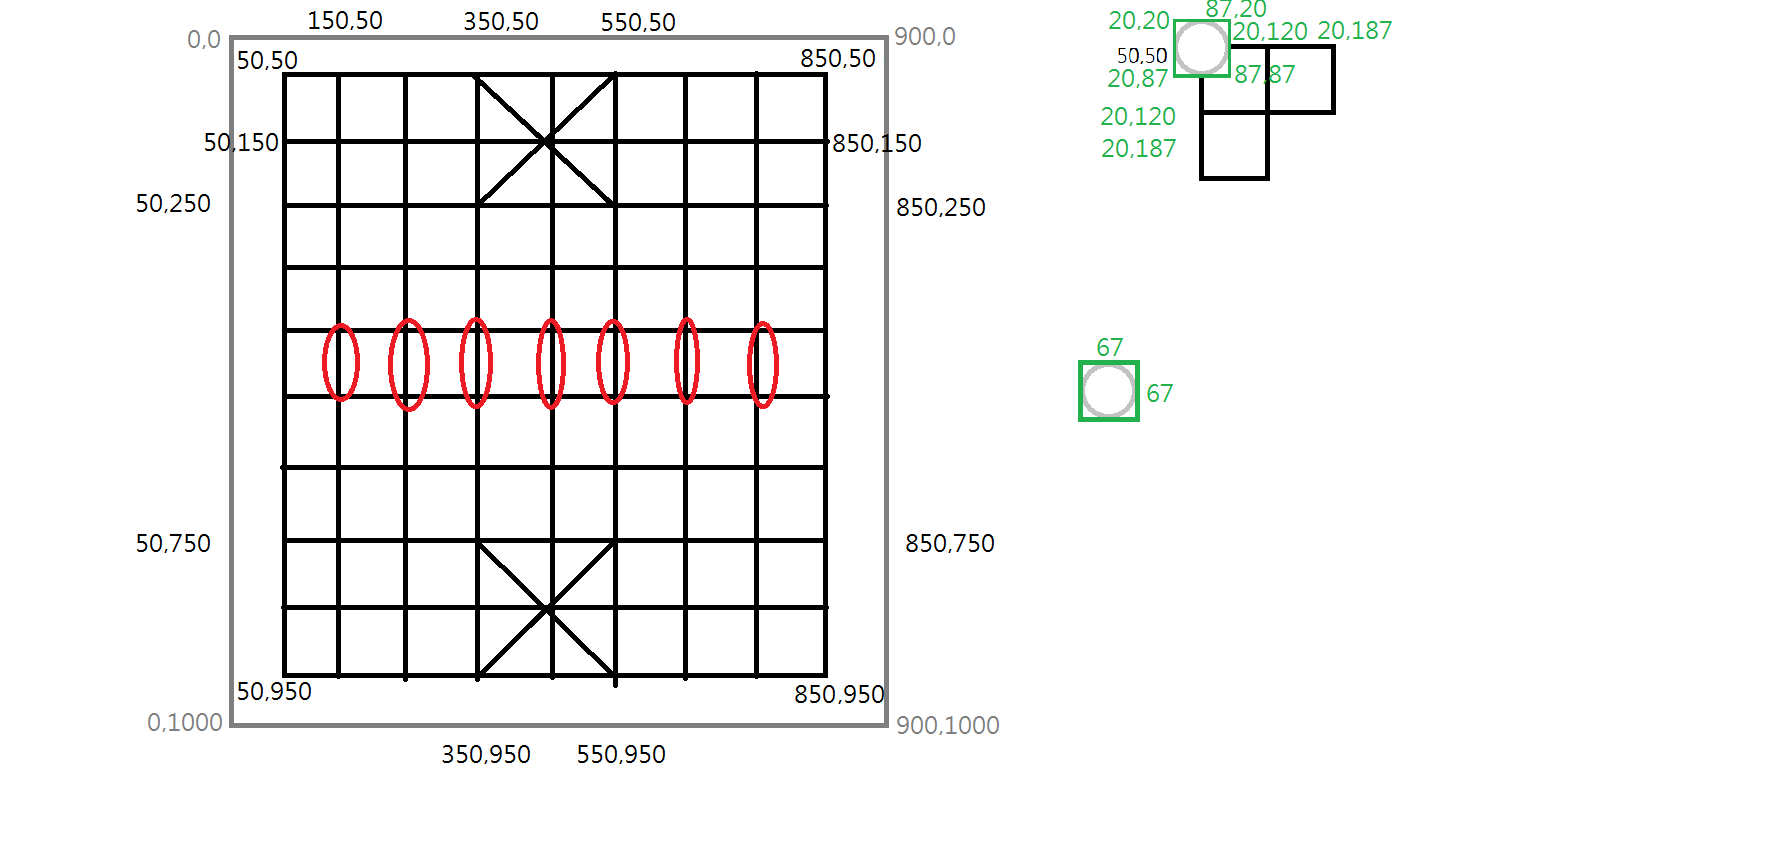
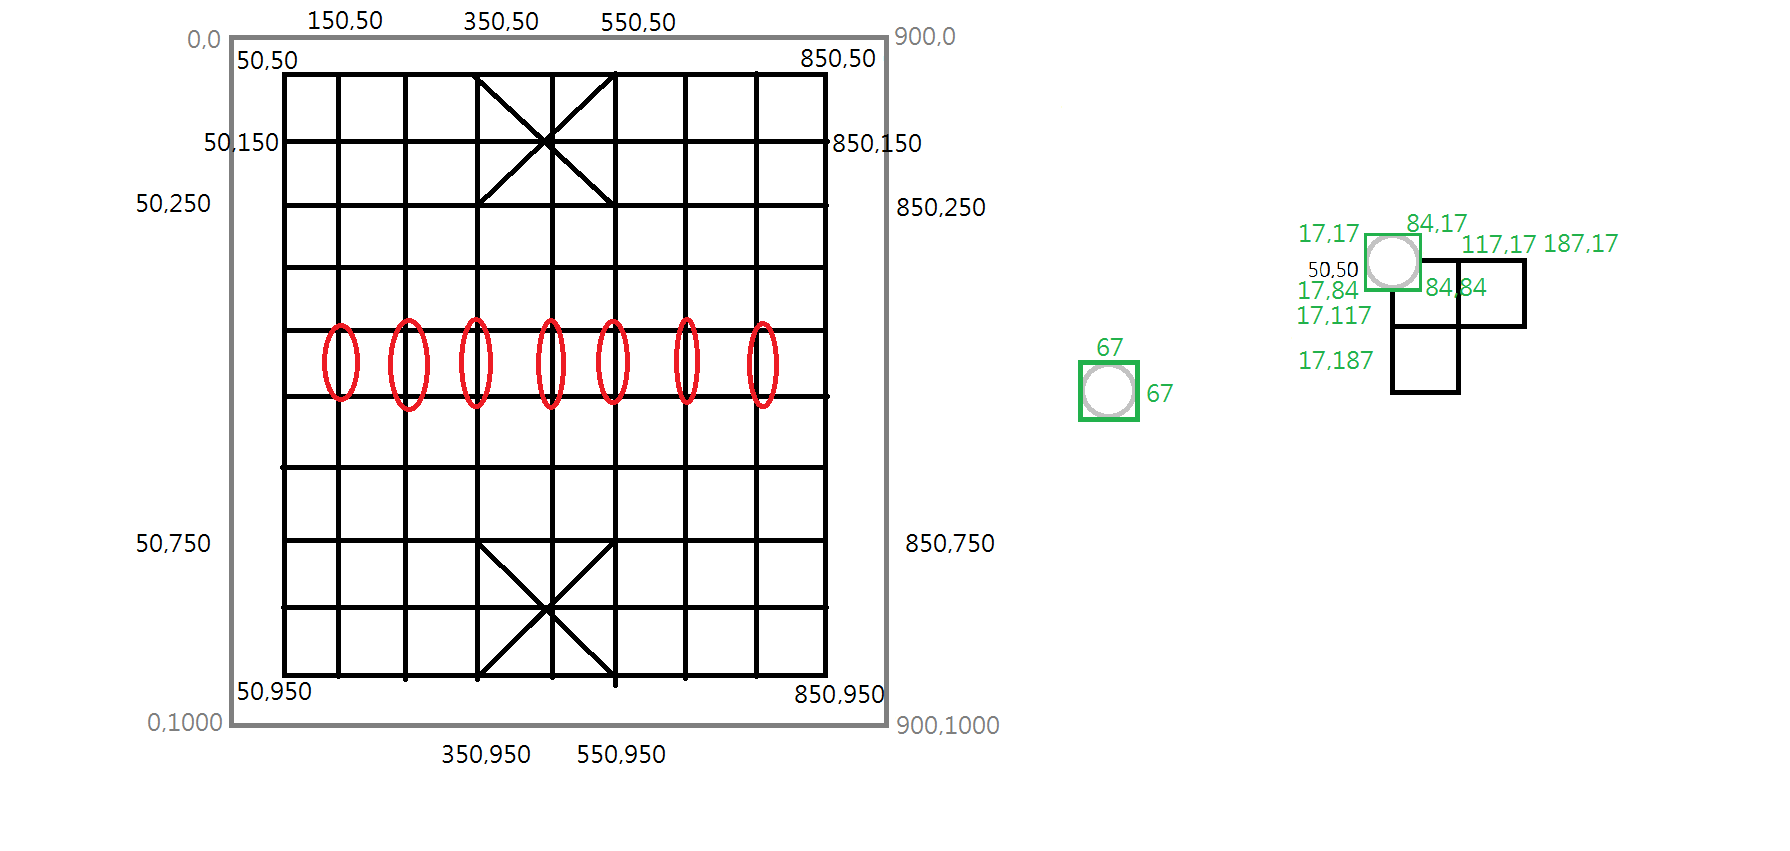
feat: chess movement and eat piece

Changed region(s): [[0.6145, 0.0, 0.7682, 0.2139], [0.7067, 0.2444, 0.9218, 0.4277], [0.7682, 0.4583, 0.8296, 0.4888]]

diff --git a/chess/board.py b/chess/board.py
@@ -3,16 +3,15 @@
 import pygame
 
 # Custom imports
-from chess.piece import Cannon, Elephant, Guard, Horse, King, Rook, Soldier
-from .constants import BLACK, COLS, HEIGHT, OFFSET, ROWS, SQUARE_SIZE, WIDTH, YELLOW_ORANGE
+from chess.piece import Cannon, Elephant, Empty, Guard, Horse, King, Piece, Rook, Soldier
+from .constants import BLACK, COLS, HEIGHT, OFFSET, RED, ROWS, SQUARE_SIZE, WIDTH, YELLOW_ORANGE
 
 
 class Board:
     def __init__(self) -> None:
         self.board: list = []
-        self.selected_piece = None
         self.red_left = self.black_left = 16
-        self.red_kings = self.black_kings = 0
+        self.red_kings = self.black_kings = 1
         self.create_board()
 
     # Draw backgroun lines
@@ -39,27 +38,58 @@ class Board:
 
     # Add Pieces to the board
     def create_board(self) -> None:
-        self.board.append([Rook(0, 0, "b"), Horse(0, 1, "b"), Elephant(0, 2, "b"), Guard(0, 3, "b"), King(
-            0, 4, "b"), Guard(0, 5, "b"), Elephant(0, 6, "b"), Horse(0, 7, "b"), Rook(0, 8, "b")])
-        self.board.append(["", "", "", "", "", "", "", "", ""])
-        self.board.append(["", Cannon(2, 1, "b"), "", "",
-                          "", "", "", Cannon(2, 7, "b"), ""])
-        self.board.append([Soldier(3, 0, "b"), "", Soldier(3, 2, "b"), "", Soldier(
-            3, 4, "b"), "", Soldier(3, 6, "b"), "", Soldier(3, 8, "b")])
-        self.board.append(["", "", "", "", "", "", "", "", ""])
-        self.board.append(["", "", "", "", "", "", "", "", ""])
-        self.board.append([Soldier(6, 0, "r"), "", Soldier(6, 2, "r"), "", Soldier(
-            6, 4, "r"), "", Soldier(6, 6, "r"), "", Soldier(6, 8, "r")])
-        self.board.append(["", Cannon(7, 1, "r"), "", "",
-                          "", "", "", Cannon(7, 7, "r"), ""])
-        self.board.append(["", "", "", "", "", "", "", "", ""])
-        self.board.append([Rook(9, 0, "r"), Horse(9, 1, "r"), Elephant(9, 2, "r"), Guard(9, 3, "r"), King(
-            9, 4, "r"), Guard(9, 5, "r"), Elephant(9, 6, "r"), Horse(9, 7, "r"), Rook(9, 8, "r")])
+        self.board.append([Rook(0, 0, BLACK), Horse(0, 1, BLACK), Elephant(0, 2, BLACK), Guard(0, 3, BLACK), King(
+            0, 4, BLACK), Guard(0, 5, BLACK), Elephant(0, 6, BLACK), Horse(0, 7, BLACK), Rook(0, 8, BLACK)])
+        self.board.append([Empty(1, 0, BLACK), Empty(1, 1, BLACK), Empty(1, 2, BLACK), Empty(1, 3, BLACK), Empty(
+            1, 4, BLACK), Empty(1, 5, BLACK), Empty(1, 6, BLACK), Empty(1, 7, BLACK), Empty(1, 8, BLACK)])
+        self.board.append([Empty(2, 0, BLACK), Cannon(2, 1, BLACK), Empty(2, 2, BLACK), Empty(2, 3, BLACK),
+                          Empty(2, 4, BLACK), Empty(2, 5, BLACK), Empty(2, 6, BLACK), Cannon(2, 7, BLACK), Empty(2, 8, BLACK)])
+        self.board.append([Soldier(3, 0, BLACK), Empty(3, 1, BLACK), Soldier(3, 2, BLACK), Empty(3, 3, BLACK), Soldier(
+            3, 4, BLACK), Empty(3, 5, BLACK), Soldier(3, 6, BLACK), Empty(3, 7, BLACK), Soldier(3, 8, BLACK)])
+        self.board.append([Empty(4, 0, BLACK), Empty(4, 1, BLACK), Empty(4, 2, BLACK), Empty(4, 3, BLACK), Empty(
+            4, 4, BLACK), Empty(4, 5, BLACK), Empty(4, 6, BLACK), Empty(4, 7, BLACK), Empty(4, 8, BLACK)])
+        self.board.append([Empty(5, 0, RED), Empty(5, 1, RED), Empty(5, 2, RED), Empty(5, 3, RED), Empty(
+            5, 4, RED), Empty(5, 5, RED), Empty(5, 6, RED), Empty(5, 7, RED), Empty(5, 8, RED)])
+        self.board.append([Soldier(6, 0, RED), Empty(6, 1, RED), Soldier(6, 2, RED), Empty(6, 3, RED), Soldier(
+            6, 4, RED), Empty(6, 5, RED), Soldier(6, 6, RED), Empty(6, 7, RED), Soldier(6, 8, RED)])
+        self.board.append([Empty(7, 0, RED), Cannon(7, 1, RED), Empty(7, 2, RED), Empty(7, 3, RED),
+                          Empty(7, 4, RED), Empty(7, 5, RED), Empty(7, 6, RED), Cannon(7, 7, RED), Empty(7, 8, RED)])
+        self.board.append([Empty(8, 0, RED), Empty(8, 1, RED), Empty(8, 2, RED), Empty(8, 3, RED), Empty(
+            8, 4, RED), Empty(8, 5, RED), Empty(8, 6, RED), Empty(8, 7, RED), Empty(8, 8, RED)])
+        self.board.append([Rook(9, 0, RED), Horse(9, 1, RED), Elephant(9, 2, RED), Guard(9, 3, RED), King(
+            9, 4, RED), Guard(9, 5, RED), Elephant(9, 6, RED), Horse(9, 7, RED), Rook(9, 8, RED)])
 
     # Draw the board
     def draw(self, win: pygame.Surface) -> None:
         self.draw_squares(win)
         for row in range(ROWS):
             for col in range(COLS):
-                if self.board[row][col] != "":
-                    self.board[row][col].draw(win)
+                self.board[row][col].draw(win)
+
+    def move(self, piece: Piece, row: int, col: int) -> None:
+        # Change the piece in the board
+        self.board[piece.row][piece.col], self.board[row][col] = self.board[row][col], self.board[piece.row][piece.col]
+        # Change the piece attribute
+        piece.move(row, col)
+
+    # Get a piece on the board based on (row,col)
+    def get_piece(self, row: int, col: int) -> Piece:
+        return self.board[row][col]
+
+    def get_valid_moves(self, piece: Piece) -> dict:
+        moves = {}
+        for row in range(ROWS):
+            for col in range(COLS):
+                moves[(row, col)] = 1
+
+        return moves
+
+    # Remove piece(change it to an Empty piece)
+    def remove(self, piece: Piece) -> None:
+        if isinstance(piece, King):
+            if piece.color == RED:
+                self.red_kings = 0
+            else:
+                self.black_kings = 0
+        self.board[piece.row][piece.col] = Empty(
+            piece.row, piece.col, piece.color)

diff --git a/chess/piece.py b/chess/piece.py
@@ -5,7 +5,7 @@ from typing import Tuple
 import pygame
 
 # Custom imports
-from .constants import BLACK_CANNON, BLACK_ELEPHANT, BLACK_GUARD, BLACK_HORSE, BLACK_KING, BLACK_ROOK, BLACK_SOLDIER, RED_CANNON, RED_ELEPHANT, RED_GUARD, RED_HORSE, RED_KING, RED_ROOK, RED_SOLDIER, SQUARE_SIZE
+from .constants import BLACK_CANNON, BLACK_ELEPHANT, BLACK_GUARD, BLACK_HORSE, BLACK_KING, BLACK_ROOK, BLACK_SOLDIER, EMPTY, RED, RED_CANNON, RED_ELEPHANT, RED_GUARD, RED_HORSE, RED_KING, RED_ROOK, RED_SOLDIER, SQUARE_SIZE
 
 
 class Piece:
@@ -22,11 +22,17 @@ class Piece:
 
     # Get (x,y) position based on (row,col)
     def get_pos(self) -> Tuple[int, int]:
-        return self.col * SQUARE_SIZE + 20, self.row * SQUARE_SIZE + 20
+        return self.col * SQUARE_SIZE + 17, self.row * SQUARE_SIZE + 17
 
     # Draw the image on the board
     def draw(self, win: pygame.Surface) -> None:
         win.blit(self.image, (self.x, self.y))
+
+    # Change row, col and (x,y) position
+    def move(self, row: int, col: int) -> None:
+        self.row = row
+        self.col = col
+        self.x, self.y = self.get_pos()
 
 
 class King(Piece):
@@ -34,7 +40,7 @@ class King(Piece):
         super().__init__(row, col, color)
 
     def get_loaded_image(self) -> pygame.Surface:
-        return RED_KING if self.color == "r" else BLACK_KING
+        return RED_KING if self.color == RED else BLACK_KING
 
 
 class Rook(Piece):
@@ -42,7 +48,7 @@ class Rook(Piece):
         super().__init__(row, col, color)
 
     def get_loaded_image(self) -> pygame.Surface:
-        return RED_ROOK if self.color == "r" else BLACK_ROOK
+        return RED_ROOK if self.color == RED else BLACK_ROOK
 
 
 class Horse(Piece):
@@ -50,7 +56,7 @@ class Horse(Piece):
         super().__init__(row, col, color)
 
     def get_loaded_image(self) -> pygame.Surface:
-        return RED_HORSE if self.color == "r" else BLACK_HORSE
+        return RED_HORSE if self.color == RED else BLACK_HORSE
 
 
 class Cannon(Piece):
@@ -58,7 +64,7 @@ class Cannon(Piece):
         super().__init__(row, col, color)
 
     def get_loaded_image(self) -> pygame.Surface:
-        return RED_CANNON if self.color == "r" else BLACK_CANNON
+        return RED_CANNON if self.color == RED else BLACK_CANNON
 
 
 class Guard(Piece):
@@ -66,7 +72,7 @@ class Guard(Piece):
         super().__init__(row, col, color)
 
     def get_loaded_image(self) -> pygame.Surface:
-        return RED_GUARD if self.color == "r" else BLACK_GUARD
+        return RED_GUARD if self.color == RED else BLACK_GUARD
 
 
 class Elephant(Piece):
@@ -74,7 +80,7 @@ class Elephant(Piece):
         super().__init__(row, col, color)
 
     def get_loaded_image(self) -> pygame.Surface:
-        return RED_ELEPHANT if self.color == "r" else BLACK_ELEPHANT
+        return RED_ELEPHANT if self.color == RED else BLACK_ELEPHANT
 
 
 class Soldier(Piece):
@@ -82,4 +88,12 @@ class Soldier(Piece):
         super().__init__(row, col, color)
 
     def get_loaded_image(self) -> pygame.Surface:
-        return RED_SOLDIER if self.color == "r" else BLACK_SOLDIER
+        return RED_SOLDIER if self.color == RED else BLACK_SOLDIER
+
+
+class Empty(Piece):
+    def __init__(self, row: int, col: int, color: str) -> None:
+        super().__init__(row, col, color)
+
+    def get_loaded_image(self) -> pygame.Surface:
+        return EMPTY

diff --git a/chess/game.py b/chess/game.py
@@ -1,0 +1,77 @@
+
+# 3rd-party libraries
+import pygame
+
+# Custom imports
+from .board import Board
+from chess.constants import BLACK, BLUE, OFFSET, RED, SQUARE_SIZE
+from chess.piece import Cannon, Elephant, Empty, Guard, Horse, King, Rook, Soldier
+
+
+class Game:
+    def __init__(self, win: pygame.Surface) -> None:
+        self.win = win
+        self._init()
+
+    # Initialize board
+    def _init(self) -> None:
+        self.selected = None
+        self.board = Board()
+        self.turn = RED
+        self.valid_moves = {}
+
+    # Reset the board
+    def reset(self) -> None:
+        self._init()
+
+    # Drawing the board
+    def update(self) -> None:
+        self.board.draw(self.win)
+        self.draw_valid_moves(self.valid_moves)
+        pygame.display.update()
+
+    # Select a piece
+    def select(self, row: int, col: int) -> None:
+        if self.selected:
+            # If it is not a valid move
+            if not self._move(row, col):
+                self.valid_moves = {}   # Don't show the blue circles
+            # Set selected to None no matter the move is valid or not TODO: Can do better
+            self.selected = None
+
+        else:
+            piece = self.board.get_piece(row, col)
+            if not isinstance(piece, Empty) and piece.color == self.turn:
+                self.selected = piece
+                self.valid_moves = self.board.get_valid_moves(piece)
+
+    # Move a piece
+    def _move(self, row: int, col: int) -> bool:
+        # Target piece(piece that want to move to)
+        piece = self.board.get_piece(row, col)
+        if self.selected:
+            if isinstance(piece, (King, Rook, Horse, Cannon, Guard, Elephant, Soldier)) and piece.color != self.turn:
+                self.board.remove(piece)
+                self.board.move(self.selected, row, col)
+                self.change_turn()
+            elif isinstance(piece, Empty):
+                self.board.move(self.selected, row, col)
+                self.change_turn()
+            else:
+                return False
+        # else:
+        #     return False
+
+        return True
+
+    # Change player turn
+    def change_turn(self) -> None:
+        self.valid_moves = {}
+        self.turn = BLACK if self.turn == RED else RED
+
+    # Draw valid moves(blue circles)
+    def draw_valid_moves(self, moves) -> None:
+        for move in moves:
+            row, col = move
+            pygame.draw.circle(
+                self.win, BLUE, (col * SQUARE_SIZE + OFFSET, row * SQUARE_SIZE + OFFSET), 15)

diff --git a/application.py b/application.py
@@ -1,9 +1,12 @@
+# Python built-in libraries
+from typing import Tuple
+
 # 3rd-party libraries
 import pygame
 
 # Custom imports
-from chess.board import Board
-from chess.constants import WIDTH, HEIGHT
+from chess.constants import HEIGHT, SQUARE_SIZE, WIDTH
+from chess.game import Game
 
 
 # Constants
@@ -13,10 +16,15 @@ WIN = pygame.display.set_mode((WIDTH, HEIGHT))
 pygame.display.set_caption("Chinese Chess")
 
 
+def get_row_col_from_mouse(pos: Tuple[int, int]):
+    x, y = pos
+    return y // SQUARE_SIZE, x // SQUARE_SIZE
+
+
 def main() -> None:
     run = True
     clock = pygame.time.Clock()
-    board = Board()
+    game = Game(WIN)
 
     while run:
         clock.tick(FPS)
@@ -26,10 +34,10 @@ def main() -> None:
                 run = False
 
             if event.type == pygame.MOUSEBUTTONDOWN:
-                pass
+                row, col = get_row_col_from_mouse(pygame.mouse.get_pos())
+                game.select(row, col)
 
-        board.draw(WIN)
-        pygame.display.update()
+        game.update()
 
     pygame.quit()
 

diff --git a/chess/constants.py b/chess/constants.py
@@ -30,3 +30,4 @@ RED_ELEPHANT = pygame.image.load("assets/r-e.png")
 BLACK_ELEPHANT = pygame.image.load("assets/b-e.png")
 RED_SOLDIER = pygame.image.load("assets/r-s.png")
 BLACK_SOLDIER = pygame.image.load("assets/b-s.png")
+EMPTY = pygame.image.load("assets/empty.png")
